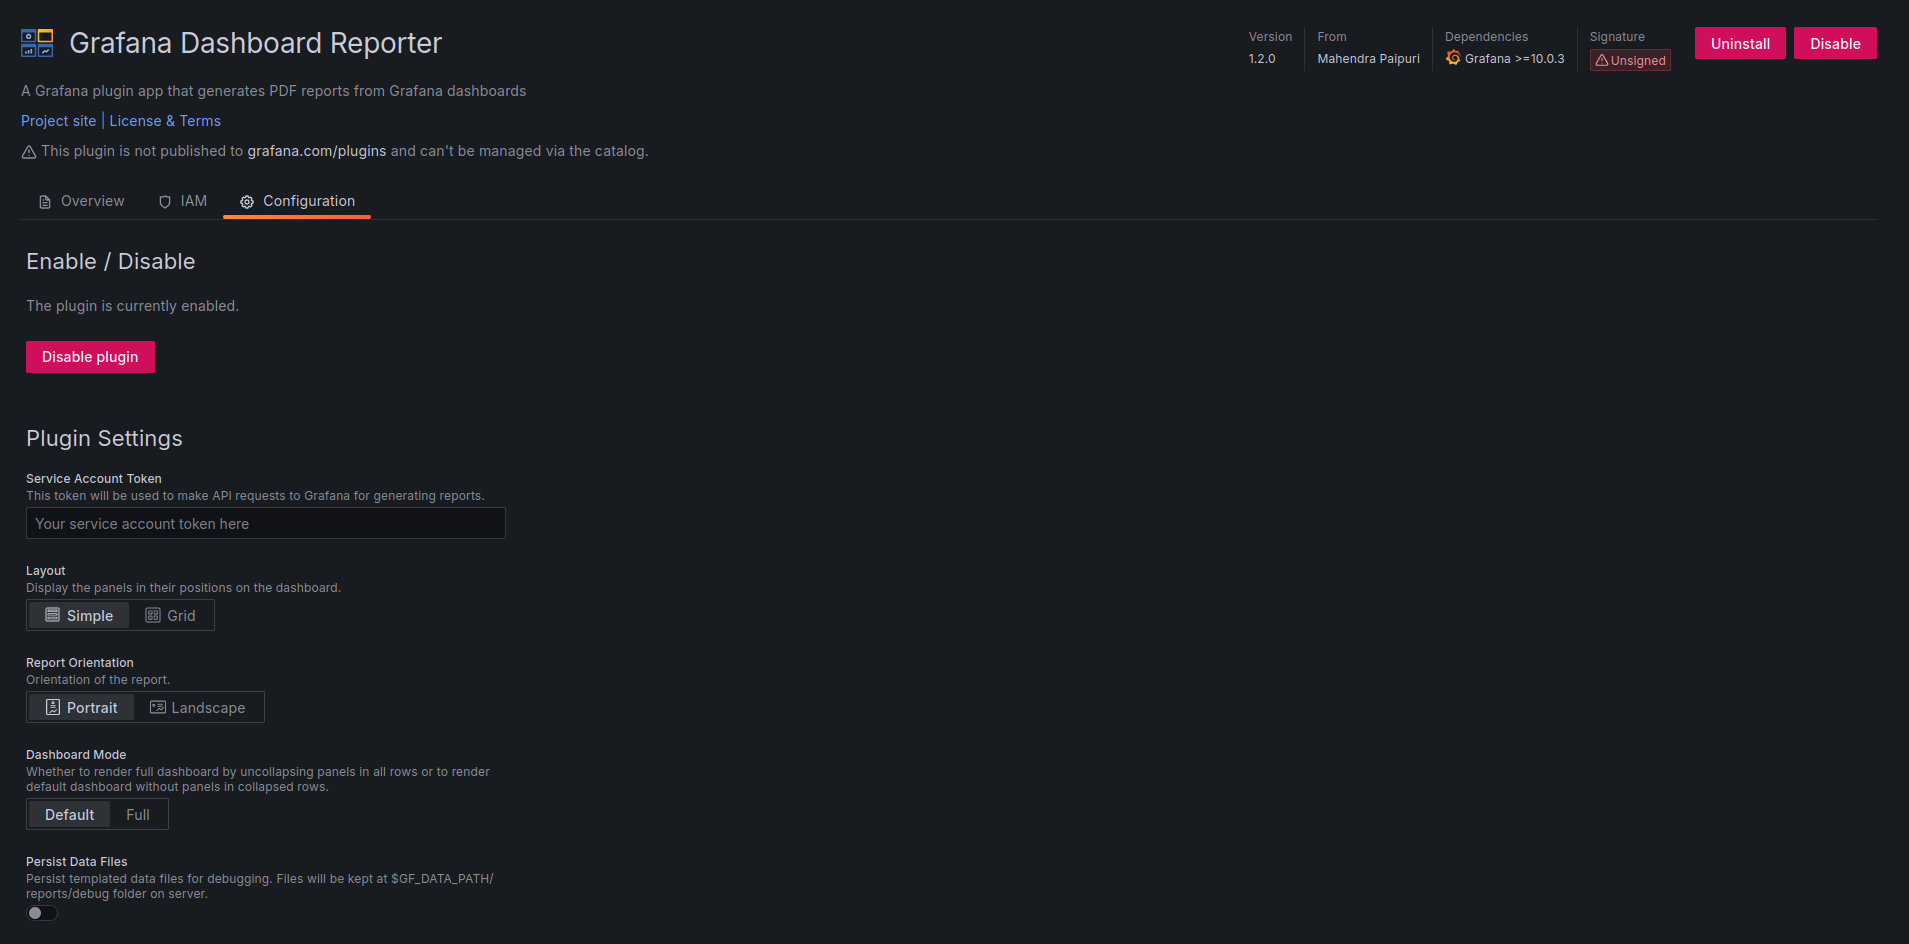
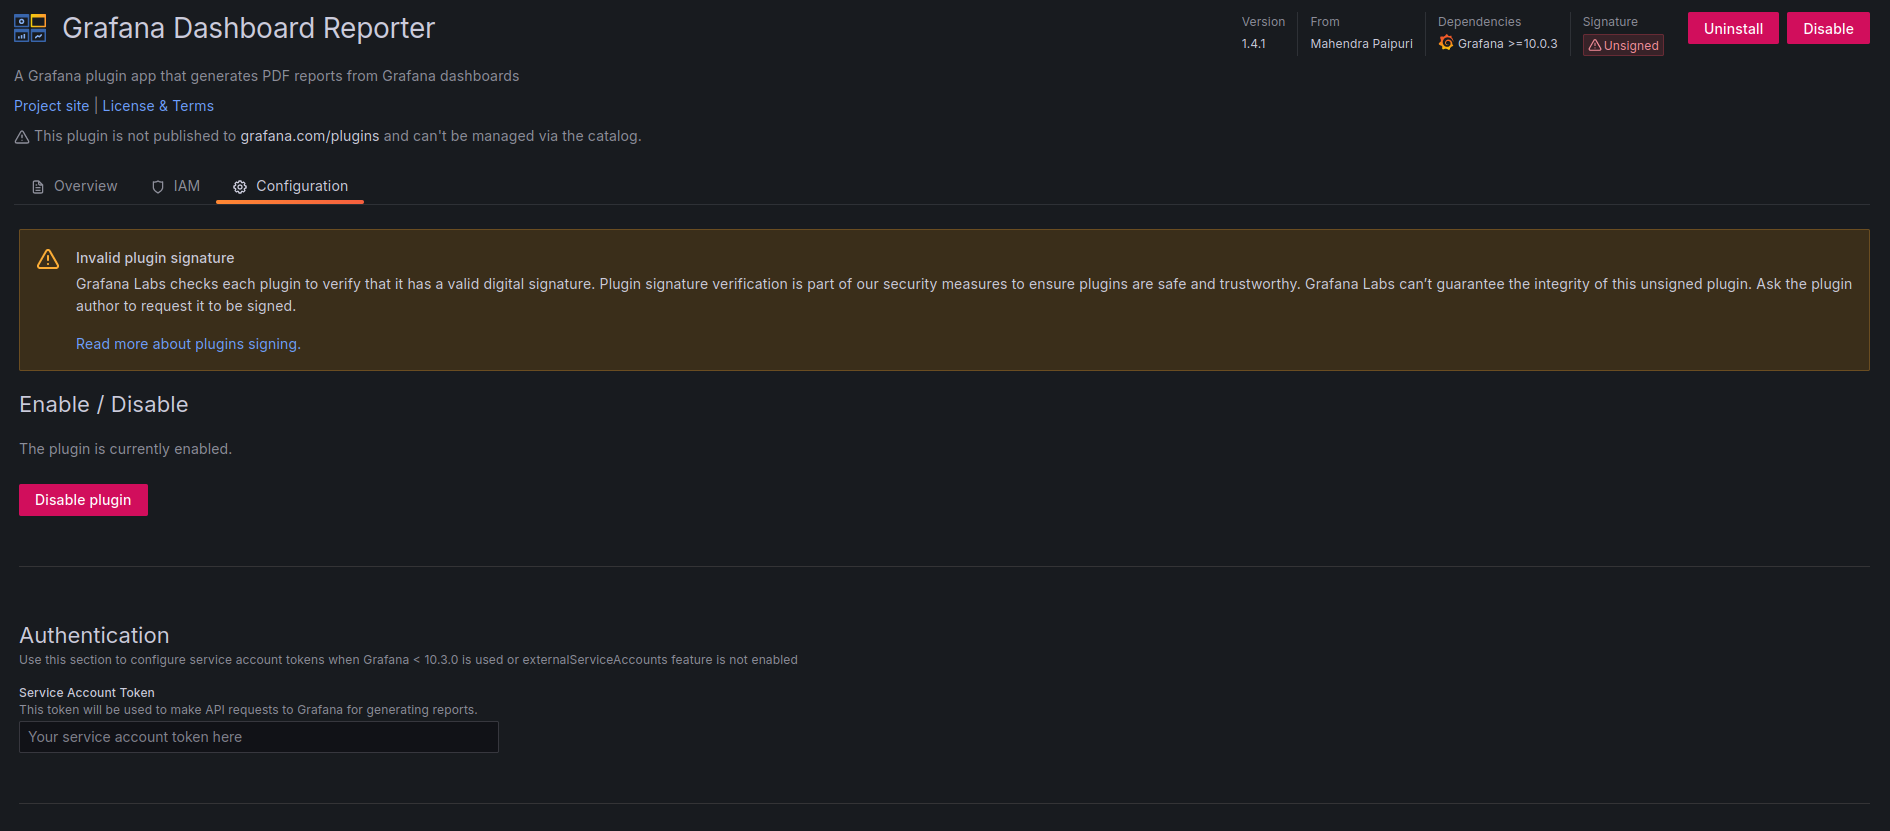
Split config into sections (#55)
* feat: Split config into sections

* For better organisation, we split config in UI into different sections

* README has been modified to reflect the config sections in UI

---------

diff --git a/src/components/AppConfig/AppConfig.tsx b/src/components/AppConfig/AppConfig.tsx
@@ -1,6 +1,7 @@
 import React, { useState, ChangeEvent } from 'react';
 import { lastValueFrom } from 'rxjs';
 import { css } from '@emotion/css';
+import { ConfigSection } from "@grafana/experimental";
 import {
   Button,
   useStyles2,
@@ -244,9 +245,12 @@ export const AppConfig = ({ plugin }: Props) => {
         )}
       </FieldSet>
 
-      {/* CUSTOM SETTINGS */}
-      <FieldSet label="Plugin Settings" className={s.marginTopXl}>
-        {/* Service account token */}
+      {/* Authentication Settings */}
+      <hr className={`${s.hrTopSpace} ${s.hrBottomSpace}`} />
+      <ConfigSection
+        title="Authentication"
+        description="Use this section to configure service account tokens when Grafana < 10.3.0 is used or externalServiceAccounts feature is not enabled"
+      >
         <Field
           label="Service Account Token"
           description="This token will be used to make API requests to Grafana for generating reports."
@@ -266,7 +270,14 @@ export const AppConfig = ({ plugin }: Props) => {
             onReset={onResetSaToken}
           />
         </Field>
+      </ConfigSection>
 
+      {/* Report Settings */}
+      <hr className={`${s.hrTopSpace} ${s.hrBottomSpace}`} />
+      <ConfigSection
+        title="Report Settings"
+        description="Use this section to customise the generated report"
+      >
         {/* Use Grid Layout */}
         <Field
           label="Layout"
@@ -342,7 +353,16 @@ export const AppConfig = ({ plugin }: Props) => {
             onChange={onChangeLogo}
           />
         </Field>
+      </ConfigSection>
 
+      {/* Additional Settings */}
+      <hr className={`${s.hrTopSpace} ${s.hrBottomSpace}`} />
+      <ConfigSection
+        title="Additional Settings"
+        description="Additional settings are optional settings that can be configured for more control over the plugin app."
+        isCollapsible
+        isInitiallyOpen={false}
+      >
         {/* Max workers */}
         <Field
           label="Maximum Render Workers"
@@ -355,66 +375,76 @@ export const AppConfig = ({ plugin }: Props) => {
             id="max-workers"
             data-testid={testIds.appConfig.maxWorkers}
             label={`Maximum Render Workers`}
+            pattern={`[0-9]{1,2}`}
             value={state.maxRenderWorkers}
             onChange={onChangeMaxWorkers}
           />
         </Field>
+      </ConfigSection>
 
-        <div className={s.marginTop}>
-          <Button
-            type="submit"
-            data-testid={testIds.appConfig.submit}
-            onClick={() =>
-              updatePluginAndReload(plugin.meta.id, {
-                enabled,
-                pinned,
-                jsonData: {
-                  appUrl: appUrl,
-                  skipTlsCheck: skipTlsCheck,
-                  maxRenderWorkers: state.maxRenderWorkers,
-                  orientation: state.orientation,
-                  layout: state.layout,
-                  dashboardMode: state.dashboardMode,
-                  timeZone: state.timeZone,
-                  logo: state.logo,
-                },
-                // This cannot be queried later by the frontend.
-                // We don't want to override it in case it was set previously and left untouched now.
-                secureJsonData: state.isSaTokenSet
-                  ? undefined
-                  : {
-                      saToken: state.saToken,
-                    },
-              })
-            }
-            disabled={Boolean(
-              !state.layoutChanged &&
-                !state.orientationChanged &&
-                !state.dashboardModeChanged &&
-                !state.timeZoneChanged &&
-                !state.logoChanged &&
-                !state.maxRenderWorkersChanged &&
-                !state.saToken
-            )}
-          >
-            Save settings
-          </Button>
-        </div>
-      </FieldSet>
+      <div className={s.marginTop}>
+        <Button
+          type="submit"
+          data-testid={testIds.appConfig.submit}
+          onClick={() =>
+            updatePluginAndReload(plugin.meta.id, {
+              enabled,
+              pinned,
+              jsonData: {
+                appUrl: appUrl,
+                skipTlsCheck: skipTlsCheck,
+                maxRenderWorkers: state.maxRenderWorkers,
+                orientation: state.orientation,
+                layout: state.layout,
+                dashboardMode: state.dashboardMode,
+                timeZone: state.timeZone,
+                logo: state.logo,
+              },
+              // This cannot be queried later by the frontend.
+              // We don't want to override it in case it was set previously and left untouched now.
+              secureJsonData: state.isSaTokenSet
+                ? undefined
+                : {
+                    saToken: state.saToken,
+                  },
+            })
+          }
+          disabled={Boolean(
+            !state.layoutChanged &&
+              !state.orientationChanged &&
+              !state.dashboardModeChanged &&
+              !state.timeZoneChanged &&
+              !state.logoChanged &&
+              !state.maxRenderWorkersChanged &&
+              !state.saToken
+          )}
+        >
+          Save settings
+        </Button>
+      </div>
     </div>
   );
 };
 
 const getStyles = (theme: GrafanaTheme2) => ({
-  colorWeak: css`
-    color: ${theme.colors.text.secondary};
-  `,
-  marginTop: css`
-    margin-top: ${theme.spacing(3)};
-  `,
-  marginTopXl: css`
-    margin-top: ${theme.spacing(6)};
-  `,
+  colorWeak: css({
+    color: `${theme.colors.text.secondary}`,
+  }),
+  marginTop: css({
+    marginTop: `${theme.spacing(3)}`,
+  }),
+  marginTopXl: css({
+    marginTop: `${theme.spacing(6)}`,
+  }),
+  hrBottomSpace: css({
+    marginBottom: "56px",
+  }),
+  hrTopSpace: css({
+    marginTop: "50px",
+  }),
+  reportSettings: css({
+    paddingTop: "32px",
+  }),
 });
 
 const updatePluginAndReload = async (pluginId: string, data: Partial<PluginMeta<JsonData>>) => {

diff --git a/tests/appConfig.spec.ts b/tests/appConfig.spec.ts
@@ -23,6 +23,7 @@ test("should be possible to save app configuration", async ({
     .getByRole("textbox", { name: "Service Account Token" })
     .fill("secret-api-key");
   await page.getByLabel("Grid").click();
+  await page.getByLabel("Expand section Additional Settings").click();
   await page.getByLabel("Maximum Render Workers").clear();
   await page.getByLabel("Maximum Render Workers").fill("3");
 

diff --git a/src/README.md b/src/README.md
@@ -127,7 +127,6 @@ parameters set in the `reporter.yml` file.
 Grafana Provisioning is a programmatic way of configuring the plugin app. However, it is 
 possible to configure the app from Grafana UI as well as explained in the first option.
 
-
 Different configuration parameters are explained below:
 
 ### Grafana related parameters
@@ -151,9 +150,17 @@ can only be set using provisioning method and **it is not possible to configure 
 will get the Grafana's data path based on its own executable path. If the existing provisioned
 configs have this parameter set, it will be ignored while loading the plugin's configuration.
 
-### Report parameters
+### Authentication settings
 
-All the configuration parameters can only be modified by `Admin` role.
+This config section allows to configure authentication related settings.
+
+- `Service Account Token`: A service account token that will be used to generate reports
+  _via_ API requests. More details on how to use it is briefed in 
+  [Using Grafana API](#using-grafana-api) section.
+
+### Report settings
+
+All the configuration parameters can only be modified by `Admin` role from Grafana UI.
 
 - `Layout`: Layout of the report. Using grid layout renders the report as it is rendered
   in the browser. A simple layout will render the report with one panel per row
@@ -169,10 +176,16 @@ All the configuration parameters can only be modified by `Admin` role.
   [IANA format](https://www.iana.org/time-zones). By default, local Grafana server's 
   time zone will be used.
 
-Although these parameters can only be changed by users with `Admin` role for whole instance
+- `Branding Logo`: This parameter takes a base64 encoded png image that will be included
+  in the footer of each page in the report. Typically, operators can include their 
+  organization logos to have "customized" reports.
+
+#### Overriding report settings
+
+Although report settings can only be modified by users with `Admin` role for whole instance
 of Grafana, it is possible to override the global defaults for a particular report
 by using query parameters. It is enough to add query parameters to dashboard report URL
-to set these values.
+to set these values. Currently, the supported query parameters are:
 
 - Query field for layout is `layout` and it takes either `simple` or `grid` as value.
   Example is `<grafanaAppUrl>/api/plugins/mahendrapaipuri-dashboardreporter-app/resources/report?dashUid=<UID of dashboard>&layout=grid`
@@ -209,15 +222,9 @@ Besides there are two special query parameters available namely:
   it will be **included** in the report. Query parameter `includePanelID` has more 
   precedence over `excludePanelID`.
 
-### Advanced parameters
+### Additional settings
 
-- `Service Account Token`: A service account token that will be used to generate reports
-  _via_ API requests. More details on how to use it is briefed in 
-  [Using Grafana API](#using-grafana-api) section.
-
-- `Branding Logo`: This parameter takes a base64 encoded png image that will be included
-  in the footer of each page in the report. Typically, operators can include their 
-  organization logos to have "customized" reports.
+Additional settings that can only be modified by the users with `Admin` role.
 
 - `Maximum Render Workers`: Number of concurrent workers to create PNGs of panels in the
   dashboard. Do not use too high value as it starve the machine
@@ -281,9 +288,10 @@ any HTTP client of your favorite programming language.
 > If you are using Grafana >= 10.3.0, there is a feature flag called `externalServiceAccounts`
 that can create a service account and provision a service account token automatically for
 the plugin. Hence, there is no need to configure the service account token to the plugin. 
+To enable this feature, it is necessary to set 
+`enable = externalServiceAccounts` in `feature_toggles` section of Grafana configuration. 
 However, the user will still need to create a service account and token to make the API
-requests to generate report. To enable this feature, it is necessary to set 
-`enable = externalServiceAccounts` in `feature_toggles` section of Grafana configuration.
+requests to generate report. 
 
 ### Security
 
